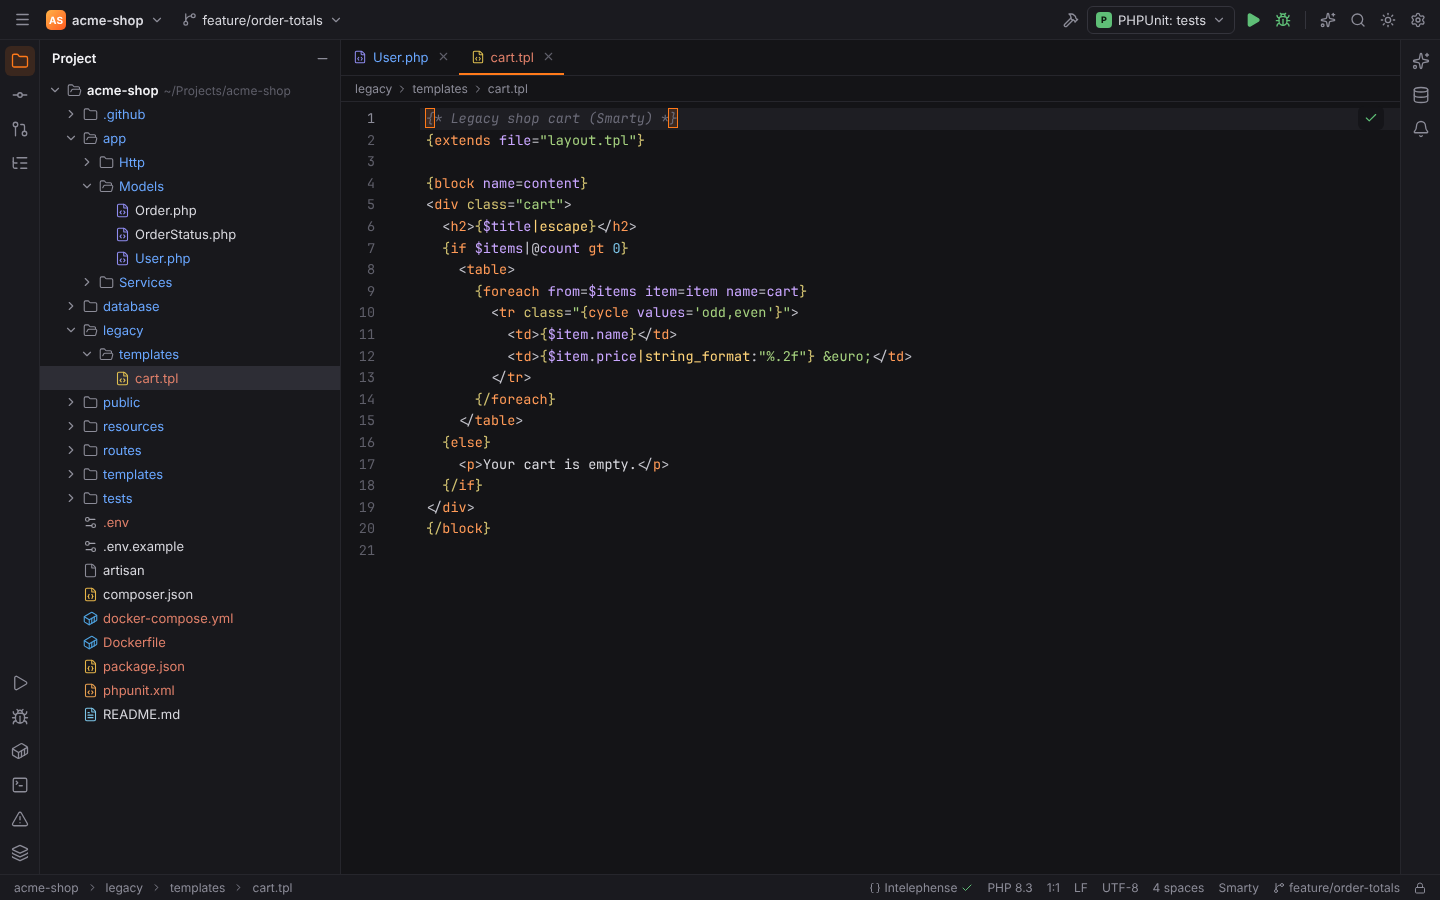
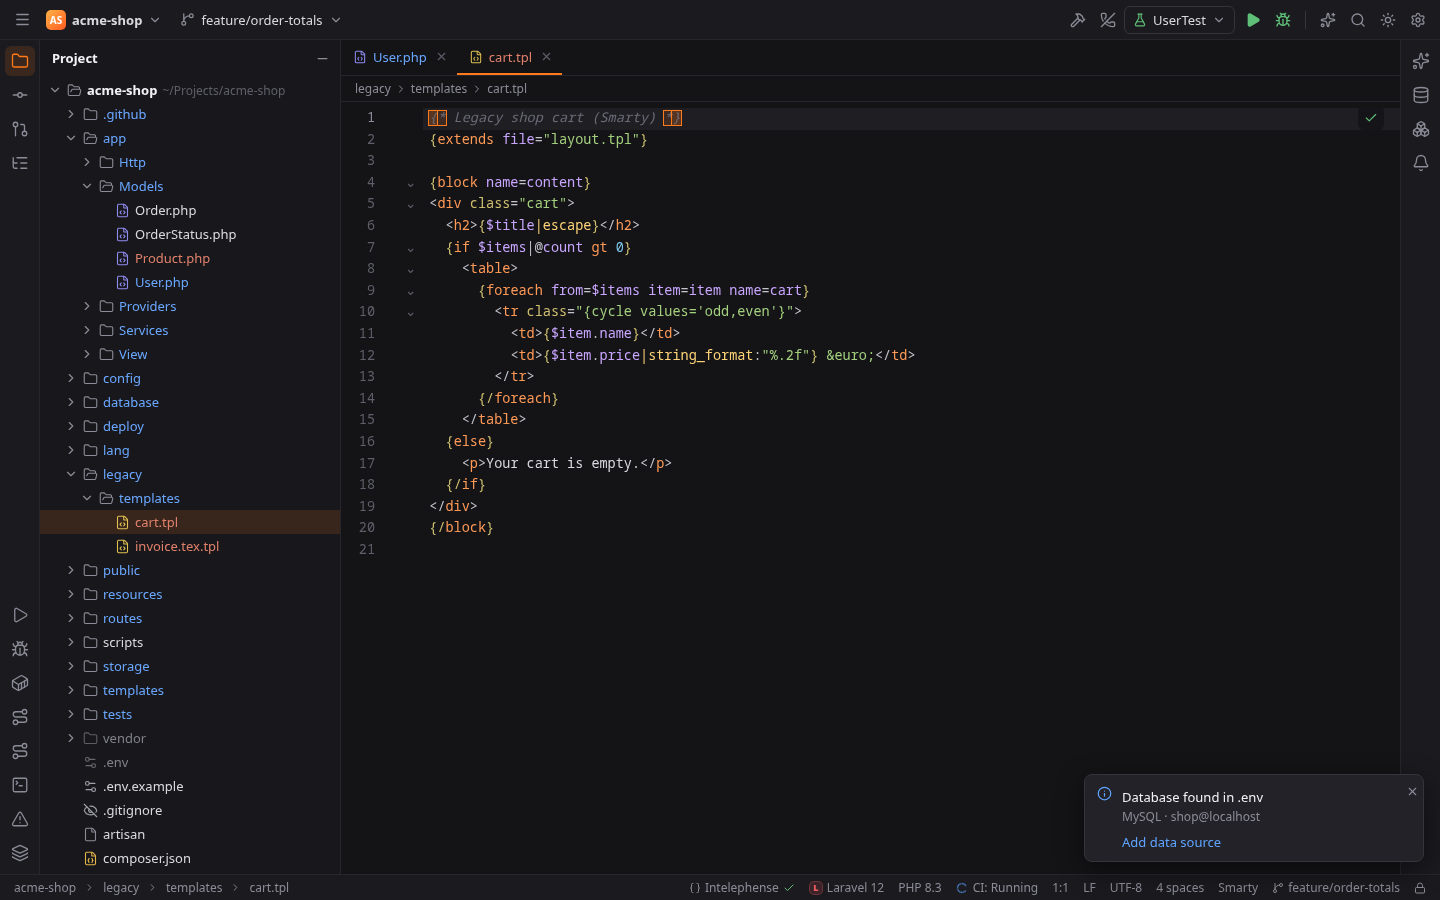
docs: add a Smarty LaTeX invoice demo and delimiter screenshots

diff --git a/app/ui/src/mock/demoConfigFiles.ts b/app/ui/src/mock/demoConfigFiles.ts
@@ -178,6 +178,38 @@ jobs:
 </div>
 {/block}
 `,
+  "legacy/templates/invoice.tex.tpl": `<<* Invoice PDF, rendered with pdflatex. LaTeX templates use << >> as Smarty delimiters. *>>
+\\documentclass[11pt,a4paper]{article}
+\\usepackage[utf8]{inputenc}
+\\usepackage{booktabs}
+
+\\newcommand{\\amount}[1]{\\textbf{#1}~EUR}
+
+\\begin{document}
+\\section*{Invoice <<$invoice.number|escape:'latex'>>}
+
+<<if $customer.company>>
+  \\textbf{<<$customer.company>>}\\\\
+<</if>>
+<<$customer.name>>\\\\
+<<$customer.street>>, <<$customer.city>>
+
+\\begin{tabular}{lrr}
+  \\toprule
+  Item & Qty & Total \\\\
+  \\midrule
+<<foreach $invoice.items as $item>>
+  <<$item.name>> & <<$item.quantity>> & \\amount{<<$item.total|string_format:"%.2f">>} \\\\
+<</foreach>>
+  \\bottomrule
+\\end{tabular}
+
+% Plain LaTeX comment: {braces} stay LaTeX.
+<<literal>>\\verb|<<not a tag>>|<</literal>>
+
+Total: \\amount{<<$invoice.total|string_format:"%.2f">>}
+\\end{document}
+`,
   "public/index.html": `<!doctype html>
 <html lang="en">
   <head>
